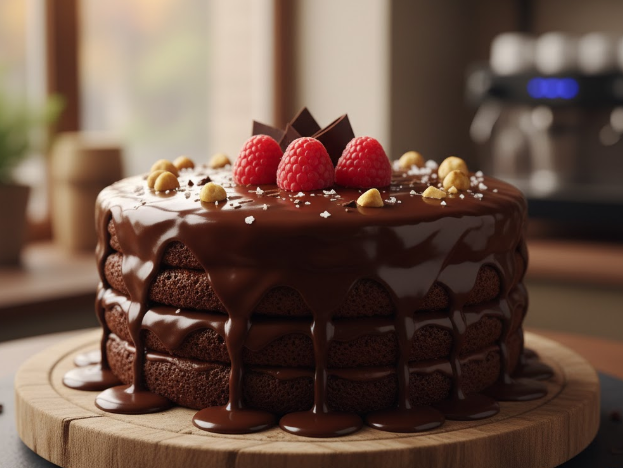
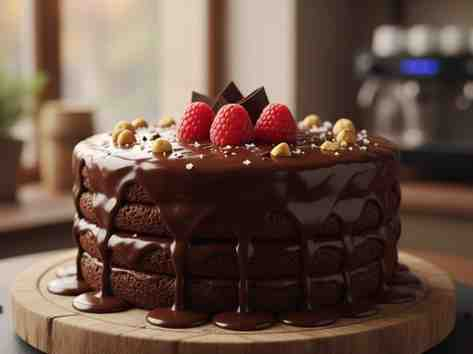
reduced image size and added lazy loading for faster loading of images

diff --git a/src/components/Home.jsx b/src/components/Home.jsx
@@ -20,6 +20,7 @@ const RestaurantCard = ({ restaurant, navigate }) => (
             src={restaurant.imageUrl} 
             alt={restaurant.name} 
             className="w-20 h-20 object-cover rounded-xl mr-4"
+            loading="lazy"
             onError={(e) => e.target.src = 'https://via.placeholder.com/80'}
         />
         <div className="flex-1">
@@ -42,7 +43,7 @@ const RestaurantCard = ({ restaurant, navigate }) => (
                     <span className="flex items-center text-sm font-semibold text-gray-500">
                         ⭐ {restaurant.rating}
                     </span>
-                    <span className="text-xs text-gray-400">Popular</span>
+                    <span className="text-xs text-gray-400">Popularity</span>
                 </div>
                 <div className="flex flex-col">
                     <span className="text-gray-500 font-bold text-base">
@@ -113,6 +114,7 @@ const Home = () => {
                                 src={item.imageUrl} 
                                 alt={item.name} 
                                 className="w-full h-full object-cover"
+                                loading="lazy"
                                 onError={(e) => e.target.src = 'https://via.placeholder.com/128'}
                             />
                             <div className="absolute bottom-0 left-0 right-0 p-2 bg-gradient-to-t from-black/60 to-transparent">

diff --git a/src/components/RestaurantDetail.jsx b/src/components/RestaurantDetail.jsx
@@ -152,6 +152,7 @@ const RestaurantDetail = () => {
                                 src={restaurant.imageUrl} 
                                 alt={restaurant.name} 
                                 className="w-full h-full object-cover"
+                                loading="eager"
                                 crossOrigin="anonymous" 
                                 onError={(e) => e.target.src = 'https://via.placeholder.com/400'}
                             />

diff --git a/index.html b/index.html
@@ -4,6 +4,9 @@
     <meta charset="UTF-8" />
     <link rel="icon" type="image/svg+xml" href="/vite.svg" />
     <meta name="viewport" content="width=device-width, initial-scale=1.0" />
+    <link rel="preload" as="image" href="/lazy_bear_cake.png" />
+    <link rel="preload" as="image" href="/nik_bakers.png" />
+    <link rel="preload" as="image" href="/banner.png" />
     <title>foodappfrontend</title>
   </head>
   <body>
